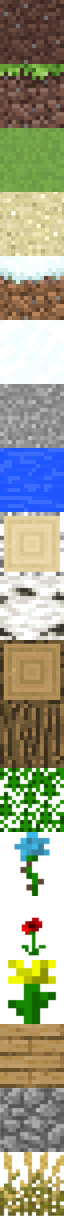
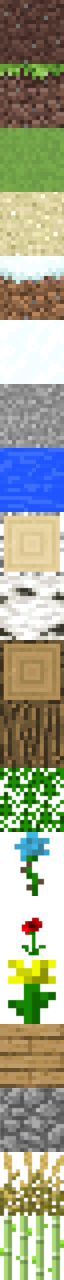
voronoi biome map, sugarcanes

diff --git a/craft/world.cpp b/craft/world.cpp
@@ -558,7 +558,7 @@ void ASSERT_VALID_MAP(Map<BiomeData, SZ> mp) {
 	}
 }
 
-void TerrainGeneration::GenerateMap(pii basepos, OUT BiomeMap_t& biomeMp, OUT LandscapeMap_t& lscapeMp) {
+void TerrainGeneration::GenerateMap(pii basepos, OUT BiomeMap_t& biomeMp, OUT LandscapeMap_t& lscapeMp, OUT VoronoiMap_t& voronoiMp) {
 	// level 8
 	Map<float, 1> baseMp({ basepos.first, basepos.second }, MAP_SIZE); //total map size is gonna be 512 * 8 = 4096 * 4096
 	Map<float, 8> noiseMp = WhiteNoise<8>::Forward(baseMp);
@@ -588,11 +588,21 @@ void TerrainGeneration::GenerateMap(pii basepos, OUT BiomeMap_t& biomeMp, OUT La
 	biomeMp = Zoom<BiomeData, 256>::Forward(biomeMp256);
 	lscapeMp = NoisyZoom<LandscapeData, 256>::Forward(landscapeMp256);
 
-	ASSERT_VALID_MAP(biomeMp);
+	//// some voronoi noise
+	voronoiMp = VoronoiMap_t(biomeMp.basepos, biomeMp.scale);
+	for(int i = 0; i < voronoiMp.size(); ++i){
+		for(int k = 0; k < voronoiMp.size(); ++k){
+			vec2i p = voronoiMp.MapToWorldPoint(i, k);
+			float seedx = i + simpleNoiseFn(2*p.x, 2*p.y);
+			float seedy = k + simpleNoiseFn(2*p.x + 1, 2*p.y + 1);
+			voronoiMp.data[i][k] = {seedx, seedy};
+		}
+	}
+	// ASSERT_VALID_MAP(biomeMp);
 	return;
 }
 
-void TerrainGeneration::FindOrCreateMap(pii basepos, OUT BiomeMap_t& biomeMp, OUT LandscapeMap_t& lscapeMp) {
+void TerrainGeneration::FindOrCreateMap(pii basepos, OUT BiomeMap_t& biomeMp, OUT LandscapeMap_t& lscapeMp, OUT VoronoiMap_t& voronoiMp){
 	//1. get the map base position
 	//base position is in world space
 	pii mapbase = { floor(static_cast<float>(basepos.first) / WS_MAP_SPAN) * WS_MAP_SPAN,floor(static_cast<float>(basepos.second) / WS_MAP_SPAN) * WS_MAP_SPAN };
@@ -603,23 +613,38 @@ void TerrainGeneration::FindOrCreateMap(pii basepos, OUT BiomeMap_t& biomeMp, OU
 	if (biomeMap.count(mapbase)) {
 		biomeMp = biomeMap[mapbase];
 		lscapeMp = landscapeMap[mapbase];
+		voronoiMp = voronoiMap[mapbase];
 		return;
 	}
 
 	//3. create map if not exist
-	GenerateMap(mapbase, OUT biomeMp, OUT lscapeMp);
+	GenerateMap(mapbase, OUT biomeMp, OUT lscapeMp, OUT voronoiMp);
 
 	//4. cache the map 
 	biomeMap[mapbase] = biomeMp;
 	landscapeMap[mapbase] = lscapeMp;
+	voronoiMap[mapbase] = voronoiMp;
 	return;
 }
 
-void TerrainGeneration::GenerateBiomeFromMap(Chunk* chunk, const BiomeMap_t biomeMp) {
+void TerrainGeneration::GenerateBiomeFromMap(Chunk* chunk, const BiomeMap_t& biomeMp, const VoronoiMap_t& voronoiMp) {
 	for (int i = 0; i < Chunk::SZ; ++i) {
 		for (int k = 0; k < Chunk::SZ; ++k) {
 			MapGen::vec2i xz = biomeMp.WorldToMapPoint(chunk->basepos.x + i, chunk->basepos.z + k);
-			chunk->blockBiome[i][k] = biomeMp.data[xz.x][xz.y].biomeType;
+			MapGen::vec2f xzf = biomeMp.WorldToMapPointF(chunk->basepos.x + i, chunk->basepos.z + k);
+			
+			MapGen::vec2i best = xz; float best_d = 10000.0f;
+			int dis[] {-1, 0, 1}, dks[] {-1, 0, 1};
+			for(int di: dis){
+				for(int dk: dks){
+					pff& seed = voronoiMp.data[xz.x + di][xz.y + dk];
+					float d = (xzf.x - seed.first)*(xzf.x - seed.first) + (xzf.y - seed.second)*(xzf.y - seed.second);
+					if(d < best_d){
+						best_d = d; best = {xz.x + di, xz.y + dk};
+					}
+				}
+			}
+			chunk->blockBiome[i][k] = biomeMp.data[best.x][best.y].biomeType;
 
 			if (biomeMp.data[xz.x][xz.y].biomeType < 0 || biomeMp.data[xz.x][xz.y].biomeType >= BiomeType::BIOME_COUNT) {
 				throw std::out_of_range("chunk->blockBiome has corrupted values");
@@ -646,7 +671,7 @@ void TerrainGeneration::GenerateTerrainHeightsFromMap(Chunk* chunk, const Landsc
 			float fn = fastNoise.samplePoint(x, z), sn = slowNoise.samplePoint(x, z);
 			float h = alpha * fn + (1.0f - alpha) * sn;
 			//2. invert elevation if ocean
-			bool isOcean = biomeMp.data[xzb.x][xzb.y].biomeType == BiomeType::SHALLOW_OCEAN || biomeMp.data[xzb.x][xzb.y].biomeType == BiomeType::DEEP_OCEAN;
+			bool isOcean = chunk->blockBiome[i][k] == BiomeType::SHALLOW_OCEAN || chunk->blockBiome[i][k] == BiomeType::DEEP_OCEAN;
 			//3. carve river
 			float rn = riverNoise.samplePoint(x, z) * RIVER_NOISE_AMPLITUDE;
 			rn = std::abs(std::min(std::max(rn, -1.0f), 1.0f));
@@ -709,6 +734,43 @@ float TerrainGeneration::simpleNoiseFn(int ix, int iy) {
 	return fmodf(random + 0.2f, 1.0f);
 }
 
+void TerrainGeneration::generateSugarCanes(Chunk& chunk, glm::ivec3& basepos, float r){
+	// generate sugar canes near ocean biomes
+	int i = basepos.x, k = basepos.z;	
+	if(chunk.blockBiome[i][k] == BiomeType::GRASSLAND ||
+		chunk.blockBiome[i][k] == BiomeType::SHRUBLAND ||
+		chunk.blockBiome[i][k] == BiomeType::DESERT
+	){
+
+		int di[] {-1, 0, 1, 0}, dk[] {0, 1, 0, -1};
+		BlockDB::BlockType blkType = BlockDB::BlockType::BLOCK_SUGARCANE;
+		bool isShore = false;
+		for(int dir = 0; dir < 4; ++dir){
+			int ni = i + di[dir], nk = k + dk[dir];
+			if(ni < 0 || ni >= Chunk::SZ || nk < 0 || nk >= Chunk::SZ) continue;
+			if(chunk.blockBiome[ni][nk] == BiomeType::SHALLOW_OCEAN || chunk.blockBiome[ni][nk] == BiomeType::DEEP_OCEAN){
+				isShore = true; break;
+			}
+		} 
+		if(isShore && r > 0.95f){
+			int h = 1;
+			if(r > 0.99){
+				h = 4;
+			}else if(r > 0.98){
+				h = 3;
+			}
+			else if(r > 0.96){
+				h = 2;
+			}else{
+				h = 1;
+			}
+			for(int hh = 0; hh < h; ++hh){
+				chunk.PlaceBlockAtCompileTime(basepos + glm::ivec3{0, hh, 0}, blkType);
+			}
+		}
+	}
+}
+
 void TerrainGeneration::GenerateBiomass(Chunk& chunk) {
 	for (int i = 0; i < Chunk::SZ; ++i) {
 		for (int k = 0; k < Chunk::SZ; ++k) {
@@ -723,14 +785,17 @@ void TerrainGeneration::GenerateBiomass(Chunk& chunk) {
 			glm::ivec3 basepos{ i, top + 1, k };
 			float r = simpleNoiseFn(bi, bk); // create a flower with probability ~0.05
 			float rch = simpleNoiseFn(chunk.basepos.x, chunk.basepos.z);
+			generateSugarCanes(chunk, basepos, r);
+
+
 			if(biome == BiomeType::SHRUBLAND
 				|| biome == BiomeType::GRASSLAND)
 			{
 				float rn = riverNoise.samplePoint(bi, bk) * RIVER_NOISE_AMPLITUDE;
 				rn = std::abs(std::min(std::max(rn, -1.0f), 1.0f));
 				float s = simpleNoiseFn(bi, bk);
+				BlockDB::BlockType blkType = BlockDB::BlockType::BLOCK_WHEAT;
 				if(rn < 0.3){
-					BlockDB::BlockType blkType = BlockDB::BlockType::BLOCK_WHEAT;
 					if(s > 0.75){
 						chunk.PlaceBlockAtCompileTime(basepos, blkType);
 						chunk.PlaceBlockAtCompileTime(basepos + glm::ivec3(0, 1, 0), blkType);
@@ -774,8 +839,9 @@ void TerrainGeneration::GenerateBiomass(Chunk& chunk) {
 void TerrainGeneration::Generate(Chunk* chunk) {
 	BiomeMap_t biomeMp;
 	LandscapeMap_t lscapeMp;
-	FindOrCreateMap({ chunk->basepos.x, chunk->basepos.z }, OUT biomeMp, OUT lscapeMp);
-	GenerateBiomeFromMap(chunk, biomeMp);
+	VoronoiMap_t voronoiMp;
+	FindOrCreateMap({ chunk->basepos.x, chunk->basepos.z }, OUT biomeMp, OUT lscapeMp, OUT voronoiMp);
+	GenerateBiomeFromMap(chunk, biomeMp, voronoiMp);
 	GenerateTerrainHeightsFromMap(chunk, lscapeMp, biomeMp);
 	GenerateRocks(chunk);
 	ReplaceSurface(chunk);

diff --git a/craft/world.h b/craft/world.h
@@ -26,6 +26,7 @@
 #include "plants.hpp"
 
 using pii = std::pair<int, int>;
+using pff = std::pair<float, float>;
 using namespace MapGen;
 
 
@@ -160,9 +161,11 @@ public:
 	static const int FLAG_RIVER = 1;
 	using BiomeMap_t = Map<BiomeData, MAP_SIZE>;
 	using LandscapeMap_t = Map<LandscapeData, MAP_SIZE>;
+	using VoronoiMap_t = Map<pff, MAP_SIZE>;
 	std::map<pii, BiomeMap_t> biomeMap;
+	std::map<pii, VoronoiMap_t> voronoiMap;
 	std::map<pii, LandscapeMap_t> landscapeMap;
-
+	
 	TerrainGeneration();
 
 	//6������ ��ǥ -> grasslands biome�� ����� ����
@@ -181,7 +184,7 @@ public:
 	/// <param name="basepos">the world x-z position. the coordinates must be divisible by the returned map's scale</param>
 	/// <param name="biomeMp">OUT biome map containing the query position</param>
 	/// <param name="biomeMp">OUT landscape map containing the query position</param>
-	void FindOrCreateMap(pii basepos, OUT BiomeMap_t& biomeMp, OUT LandscapeMap_t& lscapeMp);
+	void FindOrCreateMap(pii basepos, OUT BiomeMap_t& biomeMp, OUT LandscapeMap_t& lscapeMp, OUT VoronoiMap_t& voronoiMp);
 	
 	/// <summary>
 	/// Uses Voronoi zoom to go from the maximum resolution 4x4 of biome map
@@ -190,7 +193,7 @@ public:
 	/// </summary>
 	/// <param name="chunk">the chunk to operate on</param>
 	/// <param name="biomeMp">the map to zoom at</param>
-	void GenerateBiomeFromMap(Chunk* chunk, const BiomeMap_t biomeMp);
+	void GenerateBiomeFromMap(Chunk* chunk, const BiomeMap_t& biomeMp, const VoronoiMap_t& voronoiMp);
 
 	/// <summary>
 	/// uses landscape paramters (absolute scale and roughness)
@@ -212,8 +215,9 @@ public:
 	void GenerateBiomass(Chunk& chunk);
 	
 protected:
-	void GenerateMap(pii basepos, OUT BiomeMap_t& biomeMp, OUT LandscapeMap_t& lscapeMp);
+	void GenerateMap(pii basepos, OUT BiomeMap_t& biomeMp, OUT LandscapeMap_t& lscapeMp, OUT VoronoiMap_t& voronoiMp);
 	float simpleNoiseFn(int ix, int iy);
+	void generateSugarCanes(Chunk& chunk, glm::ivec3& basepos, float r);
 };
 
 class World {

diff --git a/craft/blocks.hpp b/craft/blocks.hpp
@@ -25,12 +25,12 @@ public:
 		BLOCK_AIR, BLOCK_GRASS, BLOCK_DIRT, BLOCK_GRANITE, BLOCK_SNOW_SOIL, BLOCK_SAND, BLOCK_WATER, BLOCK_BIRCH_LOG, BLOCK_ELM_LOG, BLOCK_FOILAGE, BLOCK_POPPY, BLOCK_DANDELION, BLOCK_CYAN_FLOWER, 
 		BLOCK_WOODEN_STAIR_P0, BLOCK_WOODEN_STAIR_P90, BLOCK_WOODEN_STAIR_P180, BLOCK_WOODEN_STAIR_P270, 
 		BLOCK_COBBLESTONE_STAIR_P0, BLOCK_COBBLESTONE_STAIR_P90, BLOCK_COBBLESTONE_STAIR_P180, BLOCK_COBBLESTONE_STAIR_P270,
-		BLOCK_TORCH, BLOCK_TORCH_R0, BLOCK_TORCH_R90, BLOCK_TORCH_R180, BLOCK_TORCH_R270, BLOCK_COBBLESTONE, BLOCK_WOOD, BLOCK_WHEAT, BLOCK_COUNT
+		BLOCK_TORCH, BLOCK_TORCH_R0, BLOCK_TORCH_R90, BLOCK_TORCH_R180, BLOCK_TORCH_R270, BLOCK_COBBLESTONE, BLOCK_WOOD, BLOCK_WHEAT, BLOCK_SUGARCANE, BLOCK_COUNT
 	};
 
 	//this should be in opposite order
 	enum BlockTextures {
-		WHEAT, COBBLESTONE, WOOD, DANDELION, POPPY, CYAN_FLOWER, FOILAGE, ELM_SIDE, ELM_TOP, BIRCH_SIDE, BIRCH_TOP, WATER, GRANITE, SNOW, SNOW_SIDE, SAND, GRASS_TOP, GRASS_SIDE, DIRT, NONE
+		SUGARCANE, WHEAT, COBBLESTONE, WOOD, DANDELION, POPPY, CYAN_FLOWER, FOILAGE, ELM_SIDE, ELM_TOP, BIRCH_SIDE, BIRCH_TOP, WATER, GRANITE, SNOW, SNOW_SIDE, SAND, GRASS_TOP, GRASS_SIDE, DIRT, NONE
 	};
 
 	enum RenderType {

diff --git a/craft/blocks.cpp b/craft/blocks.cpp
@@ -92,6 +92,7 @@ BlockDB::BlockDB() {
 	tbl[BlockType::BLOCK_DANDELION] = BlockDataRow{ BlockType::BLOCK_DANDELION,	 { BlockTextures::DANDELION,	BlockTextures::DANDELION,   },	RenderType::CUTOUT, MeshType::FLOWER, false };
 	tbl[BlockType::BLOCK_CYAN_FLOWER]=BlockDataRow{ BlockType::BLOCK_CYAN_FLOWER,{ BlockTextures::CYAN_FLOWER,	BlockTextures::CYAN_FLOWER, },	RenderType::CUTOUT, MeshType::FLOWER, false };
 	tbl[BlockType::BLOCK_WHEAT]=	  BlockDataRow{ BlockType::BLOCK_WHEAT,		 { BlockTextures::WHEAT,		BlockTextures::WHEAT, 		},	RenderType::CUTOUT, MeshType::FLOWER, false };
+	tbl[BlockType::BLOCK_SUGARCANE]=  BlockDataRow{ BlockType::BLOCK_SUGARCANE,	 { BlockTextures::SUGARCANE,	BlockTextures::SUGARCANE, 	},	RenderType::CUTOUT, MeshType::FLOWER, false };
 	tbl[BlockType::BLOCK_AIR] =		  BlockDataRow{ BlockType::BLOCK_AIR,		 { BlockTextures::NONE,			BlockTextures::NONE,		 BlockTextures::NONE,		BlockTextures::NONE,		BlockTextures::NONE,		BlockTextures::NONE},	   RenderType::INVISIBLE, MeshType::CUBE, false };
 
 	// STAIRS

diff --git a/craft/main.cpp b/craft/main.cpp
@@ -107,7 +107,7 @@ int main() {
 	CircleFill circleUI(70.f);
 	WeatherParticleRenderObj rainRenderObj(60.0f, 100.0f, 3000);
 	//create gl texture
-	TextureArray2D arr_tex = TextureArray2D("resources/atlas.png", 64, 64, 19, GL_RGBA);
+	TextureArray2D arr_tex = TextureArray2D("resources/atlas.png", 64, 64, 20, GL_RGBA);
 	//Texture2D dirt_top_tex = Texture2D("dirt_top_x64.png", GL_TEXTURE0, GL_RGB);
 	//Texture2D dirt_side_tex = Texture2D("dirt_side_x64.png", GL_TEXTURE0, GL_RGB);
 	//Texture2D dirt_bottom_tex = Texture2D("dirt_bottom_x64.png", GL_TEXTURE0, GL_RGB);
